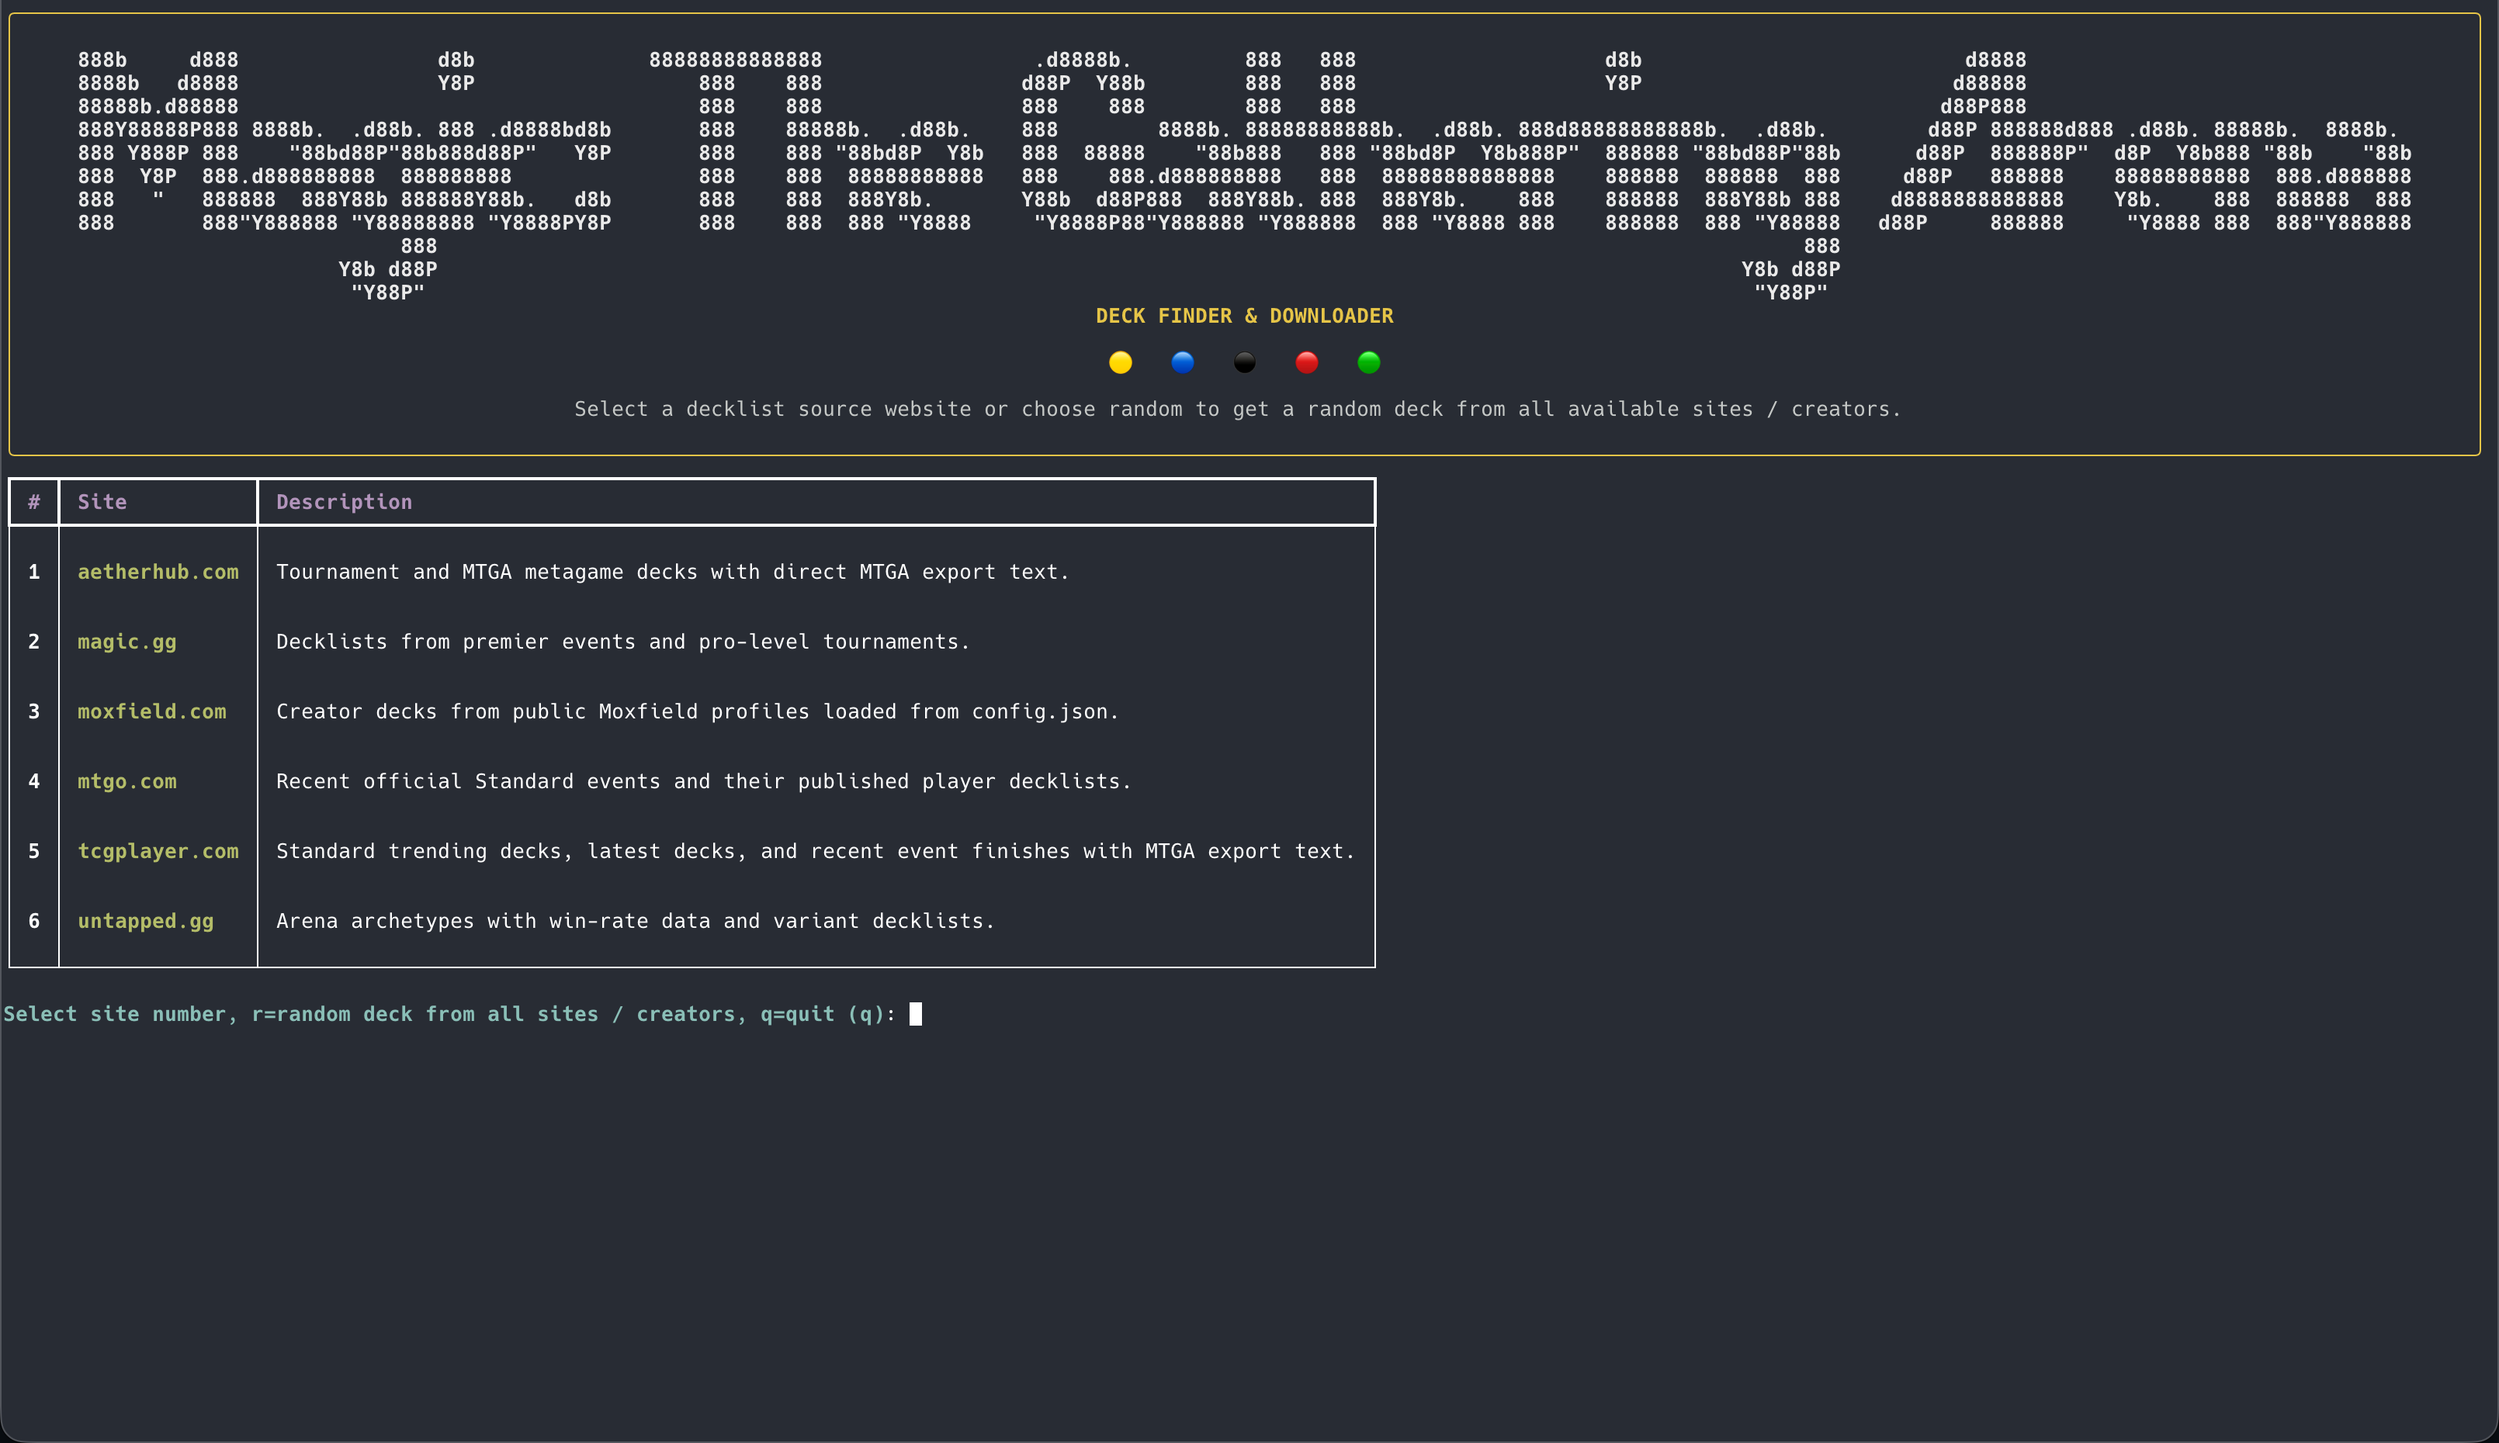
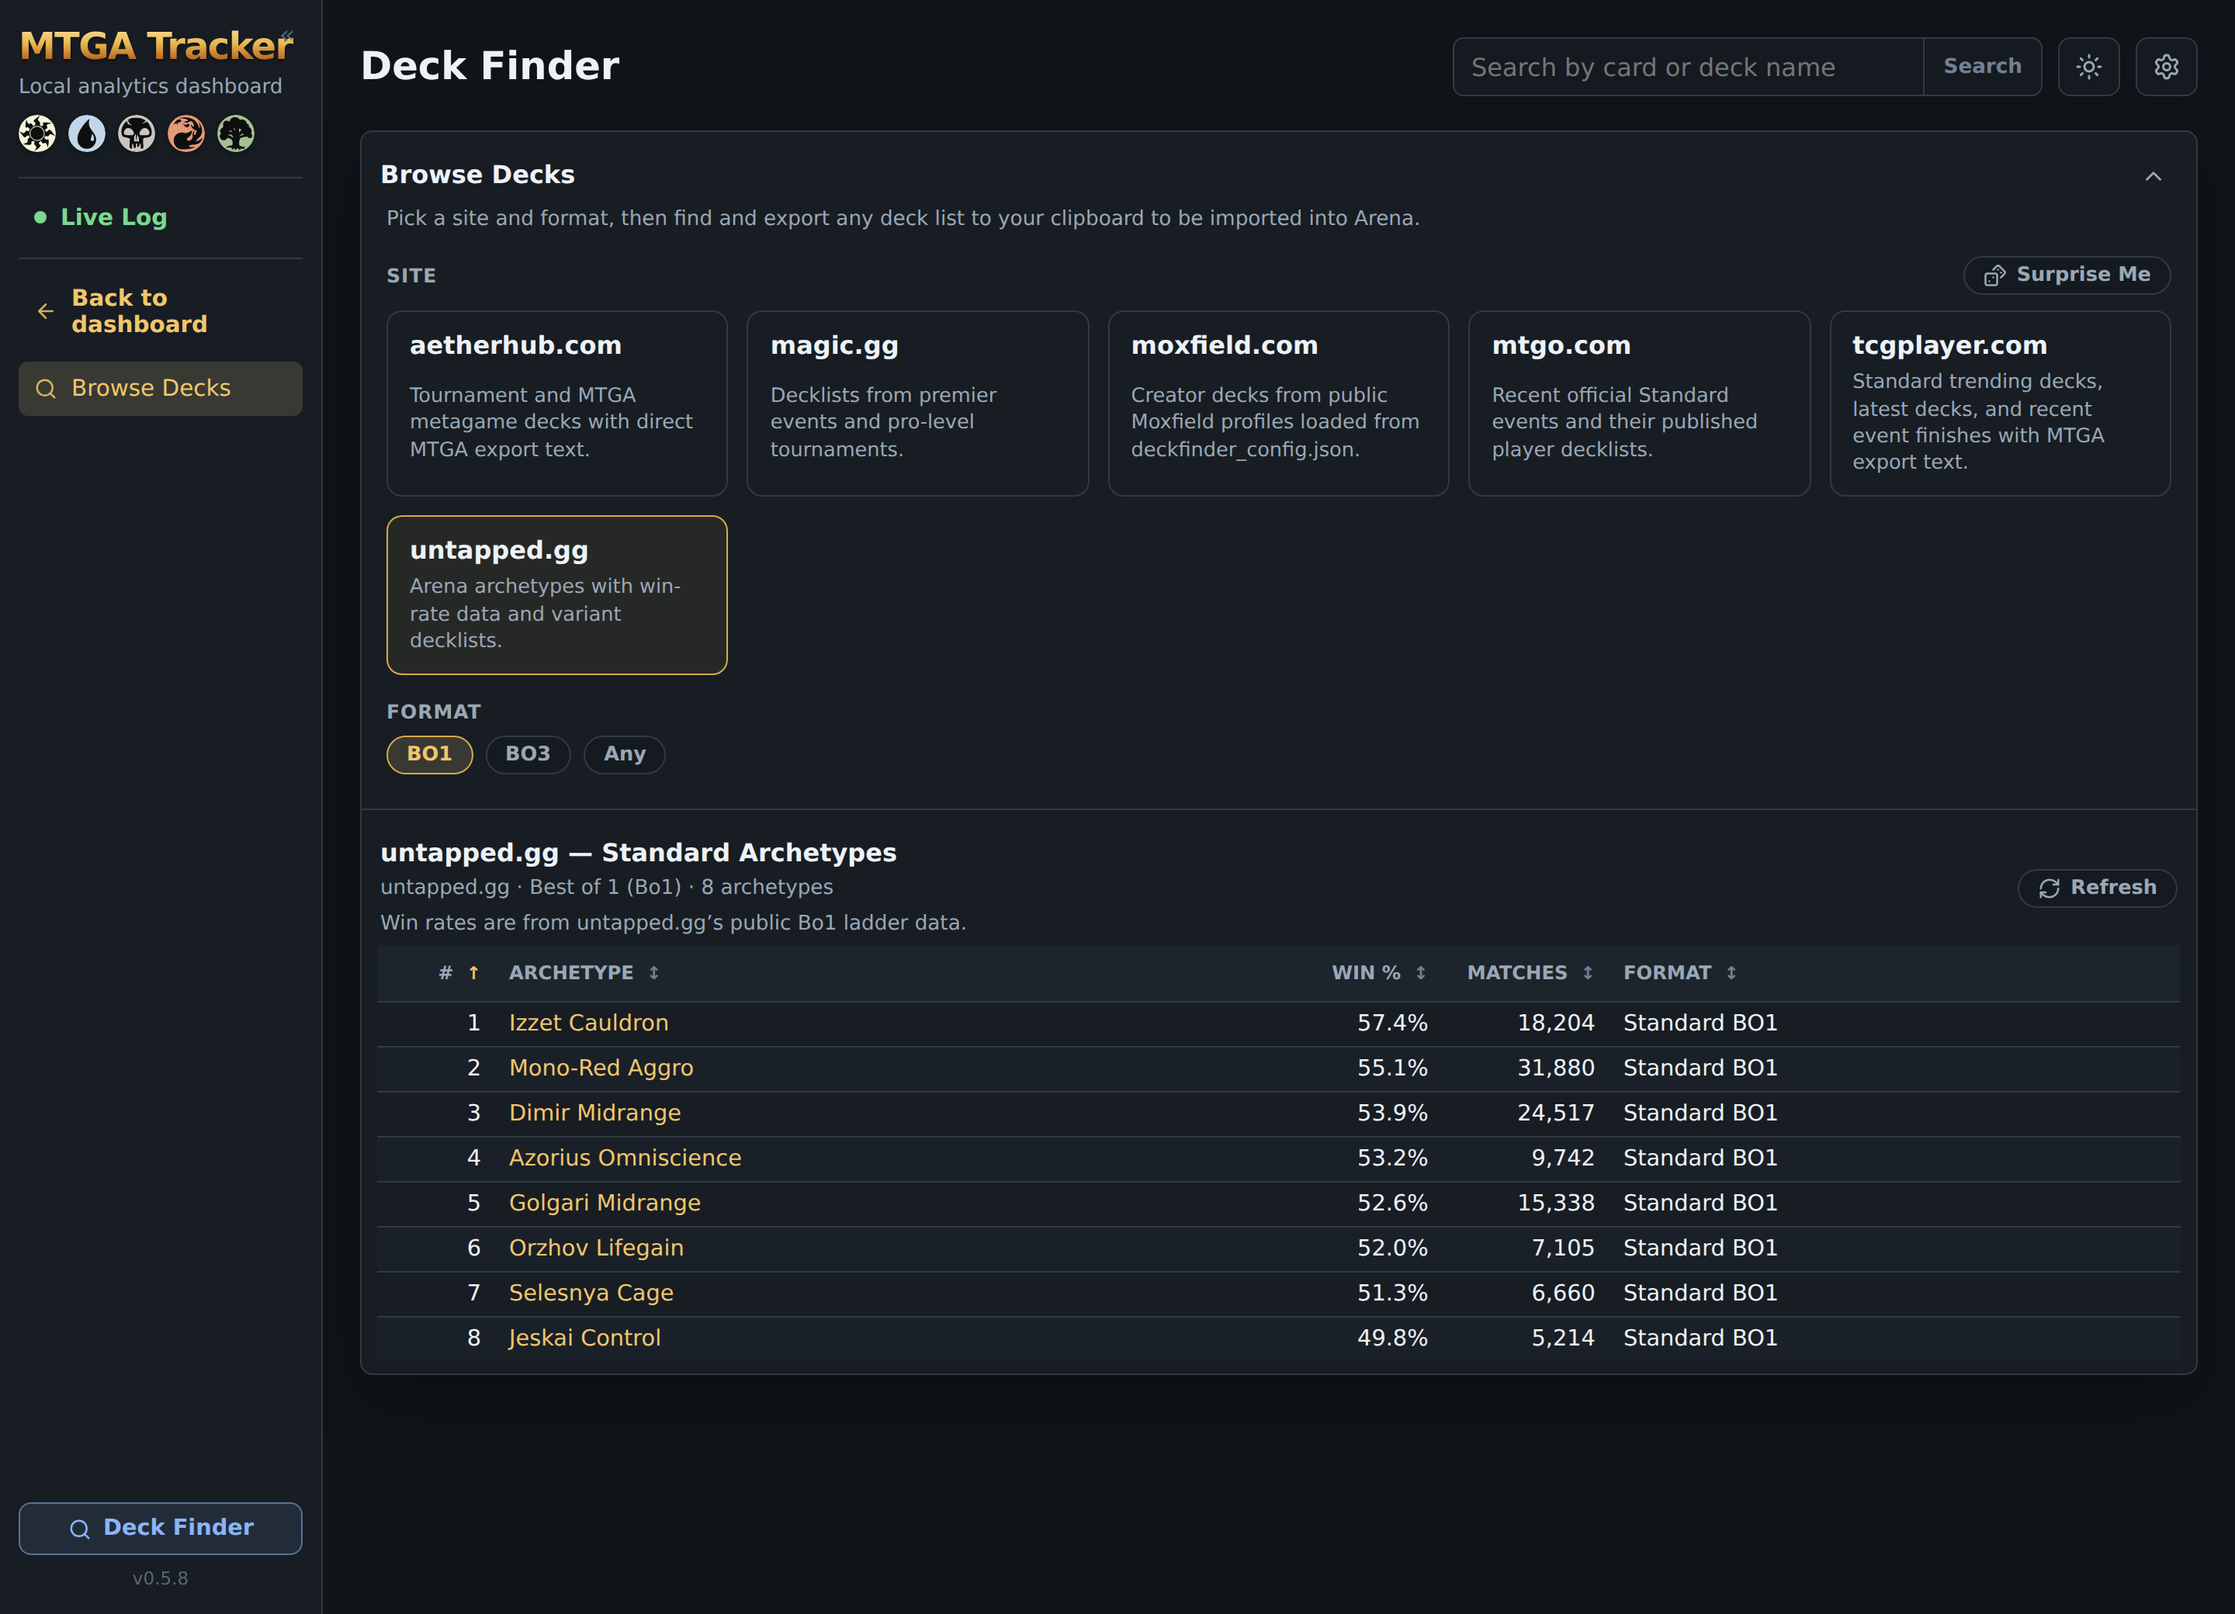
Docs for 0.5.8: fresh screenshots, Live Log + Deck Finder writeups, Discord community link

diff --git a/README.md b/README.md
@@ -10,6 +10,9 @@ data, your disk.
 ![Python 3.9+](https://img.shields.io/badge/python-3.9%2B-blue)
 ![Platforms](https://img.shields.io/badge/platforms-macOS%20%7C%20Windows-lightgrey)
 
+> 💬 **Join the community on [Discord](https://discord.gg/ExfW3HaZgb)** — for
+> discussion, bug reports, and feature requests.
+
 ![Performance Overview dashboard](docs/images/overview.png)
 
 ## What it does
@@ -17,9 +20,11 @@ data, your disk.
 **Live tracking.** One lightweight app — menu bar on macOS, system tray on
 Windows — runs everything: it follows your game in real time (casts, draws,
 lands, combat, life totals, stack resolution), writes every game to the local
-analytics database, serves the dashboard, and shows a readable play-by-play
-log window with a full per-game timeline saved for later. Prefer a terminal?
-The same tracker runs as a plain console command.
+analytics database, and serves the dashboard. The **Live Log** is a live
+**Scoreboard** page right in the dashboard: both players' life, colors, and
+deck, the turn clock, session record, today's games, and a play-by-play feed
+that reads exactly like the per-game timeline — no separate window to manage.
+Prefer a terminal? The same tracker runs as a plain console command.
 
 **Deck analytics.** Every deck gets a drill-down page tinted with its signature
 card's art: per-game combat and resource averages for both players, turn-pace
@@ -73,8 +78,15 @@ backfill your old games.
 
 ## Screenshots
 
-**Recent Games** — outcomes, formats, Brawl commander matchups, draw status, and
-game pace at a glance:
+**Live Log — the Scoreboard** — while you play: both life totals with color
+pips and deck, the turn and game clock, your live session record, today's
+finished games, and a play-by-play feed identical to the per-game timeline:
+
+![Live Log Scoreboard](docs/images/live-log.png)
+
+**Recent Games** — outcomes, deck and opponent colors (including the colorless
+diamond), formats, Brawl commander matchups, draw status, and game pace at a
+glance:
 
 ![Recent Games](docs/images/recent-games.png)
 
@@ -130,7 +142,7 @@ powershell -ExecutionPolicy Bypass -File scripts\build_windows_app.ps1
 ```bash
 python3 -m venv venv && source venv/bin/activate
 pip install -e '.[dev,gui]'
-mtga-tracker-app        # tracker + live log window + dashboard, one command
+mtga-tracker-app        # tracker + dashboard (with the live Scoreboard), one command
 ```
 
 See [QUICKSTART.md](QUICKSTART.md) for the full walkthrough, including the
@@ -183,23 +195,30 @@ names the opponent's deck — the Game Detail page shows it as the Opponent Deck
 Type, falling back to plain colors when there's no guess. The call runs in the
 background after the game ends, so tracking never waits on it.
 
-Configure it from the menu bar: **Settings…** → enable, pick a provider
-(OpenAI, Anthropic, or Gemini), paste your key, optionally set a model. The
-choice is saved to `settings.json` at the top level of the project folder
-(installed builds keep it in the app data folder), and your key is only ever
-sent to the provider you chose. Without a key the feature simply stays off.
+Configure it on the dashboard's **Settings** page (gear icon, top right — or
+the "Settings" menu-bar entry): enable, pick a provider (OpenAI, Anthropic, or
+Gemini), paste your key, optionally set a model. The Settings page also holds
+your Deck Finder creators, a tracker-status readout, and the Database Health
+link. The choice is saved to `settings.json` at the top level of the project
+folder (installed builds keep it in the app data folder), and your key is only
+ever sent to the provider you chose. Without a key the feature simply stays off.
 
 ## Deck Finder
 
-The bundled Deck Finder opens in its own terminal window from the menu bar
-("Deck Finder") or the button at the bottom of the dashboard sidebar. Browse
-featured creators or search the supported sites, then copy any decklist in
-Arena's import format. Its creator lists live in `deckfinder_config.json` at
-the top level of the project folder — edit it to add your own Moxfield,
-AetherHub, or TCGplayer creators. Everything it needs installs with the
-tracker; no separate setup.
+The Deck Finder now lives **right inside the dashboard** — open it from the
+"Deck Finder" button at the bottom of the sidebar or the menu bar entry (no
+separate terminal window anymore). Pick a site (AetherHub, magic.gg, Moxfield,
+MTGO, TCGplayer, or untapped.gg) and a format, and it lists matching decks in a
+table tuned to each site — win rates and matches for untapped.gg archetypes,
+event placings for tournament sites, and so on. Open any deck to see its list,
+then **Export to Arena** copies it in Arena's import format (or **Source**
+opens the original page). "Surprise Me" pulls a random importable deck. Your
+own featured creators for AetherHub, Moxfield, and TCGplayer are managed on the
+**Settings** page (or in `deckfinder_config.json` at the top level of the
+project folder). Everything it needs installs with the tracker; no separate
+setup.
 
-![Deck Finder & Downloader](docs/images/deck-finder.png)
+![Deck Finder in the dashboard](docs/images/deck-finder.png)
 
 ## What isn't tracked
 

diff --git a/QUICKSTART.md b/QUICKSTART.md
@@ -2,6 +2,9 @@
 
 Get MTGA Tracker running in a few minutes.
 
+> 💬 Questions, bugs, or feature requests? Join the community on
+> **[Discord](https://discord.gg/ExfW3HaZgb)**.
+
 ## Prerequisites
 
 - MTGA installed and run at least once (the tracker reads Arena's `Player.log`)
@@ -19,8 +22,8 @@ Program Files. Prefer a no-install portable copy? Grab the `-windows.zip` instea
 run `MTGA Tracker.exe` from anywhere.
 
 On macOS it's a DMG — drag **MTGA Tracker** to Applications and you're done. The
-**Deck Finder** companion tool is bundled inside the app on both platforms (launch it
-from the menu bar or the dashboard sidebar); there is nothing separate to install.
+**Deck Finder** is built into the dashboard on both platforms (open it from the
+menu bar or the sidebar button); there is nothing separate to install.
 
 **Build it yourself on macOS:**
 
@@ -31,10 +34,12 @@ open "dist/MTGA Tracker.app"
 scripts/build_macos_installer.sh
 ```
 
-The app lives in the menu bar: it starts tracking, opens the Live Tracker Log window,
-serves the dashboard locally, and opens it in your browser. Menu items: **Open
-Dashboard**, **Deck Finder**, **Show Live Tracker Log**, **Open Data Folder**,
-**Settings…** (AI deck identification), **Start/Stop Tracking**, **Quit**. Installed builds keep their database under
+The app lives in the menu bar: it starts tracking, serves the dashboard locally,
+and opens it in your browser. The tracker's status line at the top of the menu
+shows a green dot while it's running and red when it's stopped. Menu items, in
+order: **Live Log** (the live Scoreboard page), **Dashboard**, **Deck Finder**,
+**Settings** (Deck AI, creators, tracker status), **Open Data Folder**,
+**Start/Stop Tracking**, **Quit**. Installed builds keep their database under
 `~/Library/Application Support/MTGA Tracker` (macOS) or
 `%LOCALAPPDATA%\MTGA Tracker` (Windows).
 
@@ -54,9 +59,7 @@ Open Anyway entry never appears, the Terminal fallback always works:
 xattr -cr "/Applications/MTGA Tracker.app"
 ```
 
-The first Deck Finder launch from a downloaded build may prompt separately (it's its
-own executable inside the app) — same Open Anyway dance if so. On Windows, use
-SmartScreen's **More info → Run anyway** on the setup.exe or zip.
+On Windows, use SmartScreen's **More info → Run anyway** on the setup.exe or zip.
 
 ## Option 2 — Run from source (development)
 
@@ -79,11 +82,14 @@ venv/bin/python -m mtga_tracker.dashboard      # http://127.0.0.1:8765
 
 ## What to expect
 
-Start the tracker, then play Arena. The console / Live Tracker Log shows real card
-names as the game unfolds — casts, draws, lands, combat, stack resolution, life
-totals — and each finished game is saved to the local SQLite database. The dashboard
-(auto-refreshing) has the overview, per-deck pages, per-game detail with timeline and
-draw-quality analysis, and per-card pages. Everything is local; no account, no cloud.
+Start the tracker, then play Arena. Open **Live Log** for the live Scoreboard —
+both life totals with color pips, the turn and game clock, your session record,
+today's games, and a play-by-play feed (casts, draws, lands, combat, stack
+resolution, life totals) that reads just like the per-game timeline. Each
+finished game is saved to the local SQLite database. The rest of the dashboard
+(auto-refreshing) has the overview, per-deck pages, per-game detail with timeline
+and draw-quality analysis, and per-card pages. Everything is local; no account,
+no cloud.
 
 Tips:
 

diff --git a/CHANGELOG.md b/CHANGELOG.md
@@ -2,6 +2,33 @@
 
 ## 0.5.8
 
+- **Live Log is now the Scoreboard** — the old Qt play-by-play window is
+  replaced by a live page in the dashboard (`#/live`): a hero scoreboard with
+  both life totals, color pips, and deck name, a friendly format chip, the turn
+  and game clock, and Brawl commander art with hover previews. Below it, a Live
+  Feed that renders through the exact same timeline component as the `/game`
+  page (so it reads identically), the current game's play-by-play, a retained
+  "Previous Game" between matches with a closing "Game ended" banner, a session
+  rail (record, runtime, live/ready status), and a scrolling Today's Games list.
+  The Qt window is now a buried debug fallback (`MTGA_TRACKER_QT_LOG=1`).
+- **Deck Finder moved into the dashboard** — no more separate terminal window.
+  Pick a site then a format, browse a per-site results table (win rates for
+  untapped.gg, event placings for tournament sites, and so on), open any deck to
+  export it to Arena or jump to the source, or hit "Surprise Me". Creator lists
+  moved to the Settings page.
+- **Settings is now a dashboard page** (`#/settings`, gear icon on every page):
+  Deck AI configuration, Deck Finder creators, a tracker-status readout
+  (monitoring/card DB/log DB/version), a single sun/moon theme toggle, and the
+  Database Health link — all in the web UI. The old Qt dialog remains as a
+  fallback.
+- **Colorless is a color**: the colorless diamond ("C") now shows wherever
+  colors do — Recent Games, the Decks table, deck and game pages, and the live
+  scoreboard — for decks and opponents whose known cards are all colorless
+  (Eldrazi, artifact decks), instead of showing nothing.
+- **Sidebar & navigation**: a Live Log entry above Overview that turns green
+  while the tracker runs and red when it's stopped, an icon on every nav item
+  (icon-only when the rail is collapsed), a Deck Finder button with a magnifier,
+  and a global search that finds cards or decks.
 - **Deck colors everywhere**: color pips on the deck page header, a Colors
   column on the overview Decks table, and a Colors column in Recent Games
   (between Deck and Format). Colors are judged lands-first from real casting
